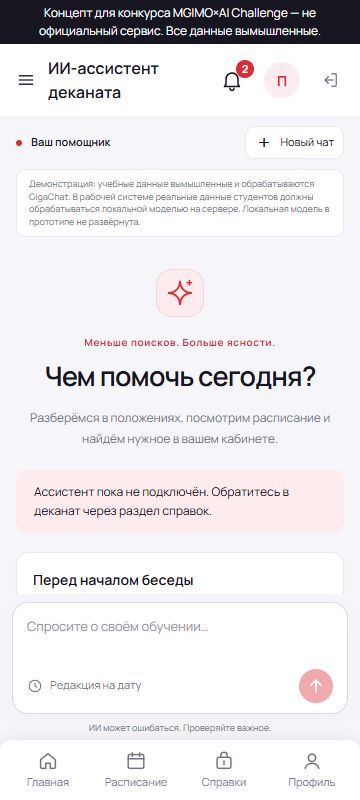
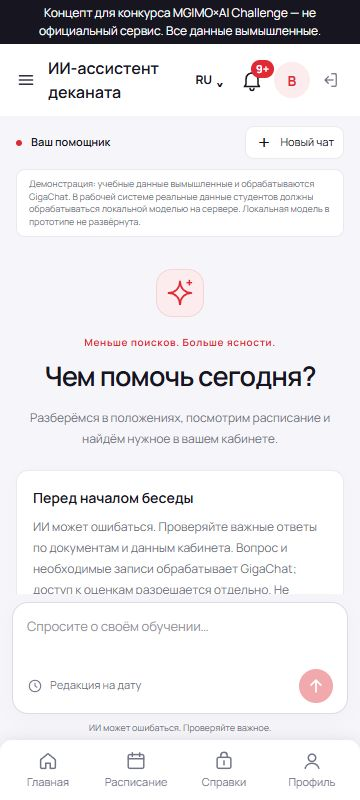
Зафиксировать наполнение стенда, проверку GigaChat и нагрузочную приёмку

Changed region(s): [[0.0917, 0.5938, 0.8861, 0.75], [0.55, 0.0625, 0.7639, 0.125], [0.7639, 0.0938, 0.825, 0.125]]

diff --git a/docs/process/scale-verification-2026-11-17.md b/docs/process/scale-verification-2026-11-17.md
@@ -1,0 +1,109 @@
+# Приёмка большого конкурсного стенда — 17 ноября 2026
+
+## Результат
+
+Рабочий стенд `https://lms-university.ekanamfriends.ru` обновлён. Код web —
+`821df83cb8dafbb96a7d11d1872940deb5c19d3f`, ветка `feature/contest-scale-integration`,
+основание — актуальная dev `5256a7a`. Проверка миграции после обновления:
+`0013_merge (head)`. Новая миграция не понадобилась: таблица подтверждения
+семестра уже была установлена в актуальной версии.
+
+Проверка данных 14:25 МСК и финальные проверки до 14:36 МСК:
+
+| Показатель | Подтверждено |
+| --- | ---: |
+| Студенты и студенческие аккаунты | 10 886 |
+| Студенты без аккаунта | 0 |
+| Студенты без свежего расписания полного семестра | 0 |
+| Группы с непустым расписанием, пригодные для генерации | 1 088 |
+| Преподаватели из импортированного расписания этих групп | 2 435 |
+| Преподавательские аккаунты | 800 |
+| Преподаватели с расписанием и связанными студентами | 800 |
+| Остальные сотрудники | 200 |
+| Пользовательские аккаунты всего | 11 886 |
+| Записи баллов | 250 962 |
+| Общий демо-пароль проверен по всем уникальным хэшам аккаунтов | да |
+| `scale --check` | ready=true |
+
+Пароли, ключи и токены в отчёт не включены. У всех аккаунтов сохраняется argon2-хэш;
+общий пароль используется только для явно согласованного синтетического стенда.
+
+## Источник расписания и сертификат
+
+Полный импорт №57: 1 535 групп обработаны, 1 088 с занятиями, 0 ошибок,
+258 189 учтённых записей занятий за 01.09.2026–31.01.2027. Это счётчик импортёра,
+не обязательно число уникальных занятий: занятие потока может встречаться у нескольких групп.
+Источник — РУЗ, ФИО преподавателей заменены вымышленными штатным импортёром.
+
+После полного импорта автоматически успешно выполнено обновление окна №58:
+590 групп, 0 ошибок, 63 172 записи. Число групп отражает студентов, уже созданных
+к моменту старта этого фонового обновления во время наполнения. Подтверждение
+семестра всех 1 088 групп остаётся привязано к полному успешному импорту №57.
+
+На сервере действительно воспроизведён истёкший сертификат РУЗ. По прямому
+указанию пользователя включено `RUZ_VERIFY_TLS=false`, исключительно для
+HTTPS `ruz.mgimo.ru:443`, без редиректов. По умолчанию в коде true. GigaChat,
+кабинет и другие сервисы сохраняют проверку TLS. В этом исключении подлинность
+сертификата РУЗ не проверяется; после обновления сертификата вернуть true.
+
+## Данные преподавателя и реальный LLM
+
+Блок «Свои студенты» удалён по указанию пользователя. Контекст определяется
+учётной записью преподавателя на сервере, через ведомости/зачисления и пары
+«группа–дисциплина» из расписания. Чужие дисциплины и заявки на справки не передаются.
+Крупная выборка явно помечается как ограниченная; неполный ответ получает partial.
+
+Живой HTTP-сценарий выполнен 14:35 МСК:
+
+1. Вход `teacher1`, открытие страницы без блока выбора.
+2. Начало беседы без student_id: область преподавателя подставляется автоматически.
+3. Запрос баллов → `consent_required` до чтения и передачи оценок.
+4. Явное разрешение на оценки → ответ реального GigaChat: partial, 13 фактов,
+   `personal_checked_at=2026-11-17T14:35:45+03:00`.
+5. Беседа очищена, разрешение отозвано.
+
+Во время первоначальной проверки модель вернула запрещённый intent=request.
+Ошибка исправлена: маршрутизация и выбор фактов используют строгую JSON-схему,
+ID фактов ограничены реально доступными записями. Серверная валидация сохранена.
+Запись об этом есть в `docs/process/ai-mistakes.md`.
+
+В браузере на рабочем HTTPS-стенде выполнены входы студента и преподавателя,
+открытие ассистента на 360 px. Горизонтального переполнения нет, блока выбора
+у преподавателя нет. Финальные PNG заменены скриншотами рабочего стенда;
+неудачный вариант сохранён отдельно с суффиксом `rejected`.
+
+## Производительность и технические проверки
+
+На наполненном рабочем стенде: 50 параллельных сессий, смешанные роли,
+150 чтений успеваемости/курсов/кабинета сотрудника. HTTP-ошибок нет.
+
+| Операция | p95 | Максимум |
+| --- | ---: | ---: |
+| Вход, 50 запросов | 3,777 с | 4,195 с |
+| Обычные страницы, 150 запросов | 0,967 с | 1,399 с |
+
+Это короткий прогон чтения и входов на текущем VPS, не длительный стресс-тест.
+Массовые одновременные LLM-запросы и конкурентное редактирование оценок этим
+прогоном не проверялись. Записи через LLM и заявки во время нагрузки не создавались.
+
+Полный локальный набор после переноса на dev: 255 passed, 4 skipped,
+2 subtests passed. Пропуски — отдельные PostgreSQL-сценарии без тестовой БД.
+После этого выполнены целевые проверки ограничения контекста и SQL-области
+преподавателя: 8 passed; после исправления схемы маршрутизации — 26 passed.
+Эти числа пересекаются и не суммируются. На рабочем PostgreSQL проверены scale CLI,
+подготовка данных, входы и фактический HTTP-путь к GigaChat.
+
+БД на 14:36 МСК — 237 МБ. Реплика streaming, lag_bytes=0 на момент финальной проверки.
+
+## Бэкапы и сохранность
+
+До записи создан и проверен архив `backups/contest-scale/lms-20261117T105015Z.dump`.
+После приёмки создан и проверен `backups/contest-scale/lms-20261117T113649Z.dump`
+(11 380 774 байта). Сохранены три последних `.dump` БД; две устаревшие копии удалены
+только из проверенного каталога backups. Проверка `pg_restore --list` выполнена;
+пробное восстановление в отдельную БД не проводилось.
+
+Сброс успеваемости не выполнялся. Старые записи и ручные баллы сохранялись,
+повторяемость дополнения и сохранность изменённого балла проверены отдельным тестом.
+Ранее незакоммиченные изменения пользователя остались в исходной рабочей копии;
+интеграция и коммиты выполнены в отдельной `.work-scale-integration`.

diff --git a/docs/contest-scale.md b/docs/contest-scale.md
@@ -1,5 +1,10 @@
 # Большой конкурсный стенд: подготовка и проверка
 
+Итог на 17 ноября 2026, 14:36 МСК: стенд наполнен и проверен — 10 886 студентов,
+800 преподавателей со своими студентами и расписанием, 200 сотрудников.
+Проверка `scale --check`: ready=true. Код web-контейнера — `821df83`.
+Подробная [приёмка на рабочем стенде](process/scale-verification-2026-11-17.md).
+
 Только вымышленные пользователи. Цель по умолчанию: не менее 10 000 студентов,
 800 преподавателей с занятиями и доступными студентами, 200 других сотрудников.
 
@@ -94,14 +99,14 @@ URL по умолчанию берётся из `PUBLIC_BASE_URL`. Для Secure
 Этот прогон не сохраняет оценки, не создаёт справки и не отправляет внешние сообщения.
 Массовые LLM-запросы проверять отдельно с учётом квот и оплаты провайдера.
 
-## Фактический статус 17 ноября 2026
+## Предварительный снимок 17 ноября 2026, до изменений
 
 В 13:15–13:16 МСК выполнены read-only проверки рабочего VPS: 26 студентов,
 2 преподавательских аккаунта, 1 сотрудник, 92 преподавателя в справочнике,
 1987 занятий. Последние импорты №54–56 имеют статус `failed`.
 Проверочный HTTPS-запрос из web-контейнера подтвердил истёкший сертификат РУЗ.
 Полная загрузка 10К/800/200 **не подтверждена**. Проверку TLS не отключали.
-Серверные данные и контейнеры этой задачей не изменялись.
+На момент этого предварительного снимка серверные данные и контейнеры ещё не изменялись.
 
 Дополнительная проверка существующих ведомостей: `teacher1` — 2 курса, 13 студентов,
 102 записи баллов; `teacher2` — 3 курса, 13 студентов, 51 запись баллов. Для этих
@@ -112,7 +117,7 @@ URL по умолчанию берётся из `PUBLIC_BASE_URL`. Для Secure
 вход каждого аккаунта маленького синтетического набора, фильтрация данных,
 отзыв доступа и передаваемый LLM контекст с заменой провайдера на тестовый.
 Реальный GigaChat в этой проверке не вызывался. На ширине 360 px выполнены
-входы студента и преподавателя, просмотр ассистента и индикатора загрузки,
+входы студента и преподавателя, просмотр ассистента; первоначальный блок выбора затем удалён,
 горизонтального переполнения нет. Скриншоты — `docs/process/screenshots/2026-11-17-*-assistant-360.png`.
 
 Полный локальный прогон после переноса на актуальную dev: 255 passed, 4 skipped,

diff --git a/docs/prompts/scale-audit.md b/docs/prompts/scale-audit.md
@@ -66,3 +66,8 @@
   и выбора фактов включён response_schema; ID ограничены фактически загруженными
   записями. 26 целевых тестов прошли. Реальный вызов с исправлением разобрал Plan
   и Selection, вернул partial с двумя фактами, без вывода оценок в диагностический лог.
+- Выкладка и приёмка: полный импорт №57 (1535/1535, 0 ошибок), 10 886 студентов,
+  800 преподавателей со своими студентами, 200 сотрудников; ready=true. Код web
+  821df83. Реальный HTTP-сценарий после разрешения оценок вернул partial с 13 фактами.
+  На 50 сессиях/150 чтениях HTTP-ошибок нет, p95 страниц 0,967 с. Бэкапы проверены,
+  оставлены три копии; реплика streaming с lag_bytes=0. Детали — в отдельной приёмке.
